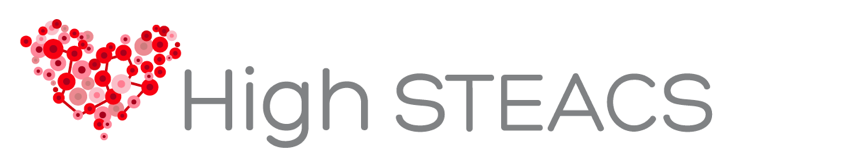
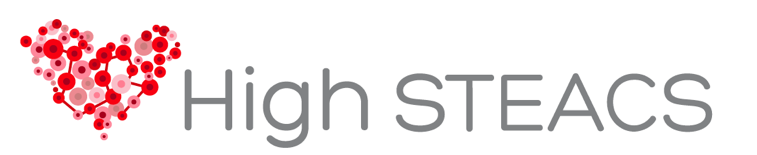
Finish responsive styling

Changed region(s): [[0.0, 0.1032, 0.9419, 0.9548]]

diff --git a/imports/ui/about/about.html b/imports/ui/about/about.html
@@ -1,10 +1,52 @@
 <template name="About">
   <div class="container">
-    <div class="row top-buffer">
+    <div class="row">
+      <div class="col-xs-9 col-md-8 col-md-offset-1">
+        <div class="hidden-xs">
+          <img class="img-responsive" src="/high-STEACS-text.png" />
+        </div>
+        <div class="hidden-sm hidden-md hidden-lg hidden-xl">
+          <img class="img-responsive" src="/High-STEACS-acc.png" />
+        </div>
+      </div>
+      <div class="col-xs-3 col-md-2">
+        <img class="img-responsive bhf-logo" src="/BHF-logo.png" />
+      </div>
+      <div class="col-xs-12 hidden-sm hidden-md hidden-lg hidden-xl">
+        <h3 class="hidden-sm hidden-md hidden-lg hidden-xl">High-sensitivity Troponin in the Evaluation of Patients with Acute Coronary Syndromes</h3>
+      </div>
+    </div>
+
+    <div class="row in-column-buffer">
       <div class="col-sm-8 col-sm-offset-2">
-        <h2 class="text-center">About</h2>
-        <p>This app is not for clinical use, for demonstration purposes only.</p>
-        <p>Algorithm belongs to University of Edinburgh and is used here for educational purposes.</p>
+        <div>
+          <h4>This app is not for clinical use, for demonstration purposes only.</h4>
+          <h4>Algorithm belongs to University of Edinburgh and is used here for educational purposes.</h4>
+          <div class="upper-buffer">
+            <blockquote class="twitter-tweet tw-align-center"><p lang="en" dir="ltr">High-sensitivity cardiac troponin I at presentation in patients with suspected acute coronary syndrome - The Lancet <a href="http://t.co/WAauSiac0V">http://t.co/WAauSiac0V</a></p>&mdash; Nicholas Mills (@HighSTEACS) <a href="https://twitter.com/HighSTEACS/status/652180729800052736">October 8, 2015</a></blockquote> <script async src="//platform.twitter.com/widgets.js" charset="utf-8"></script>
+          </div>
+          <div class="panel panel-info upper-buffer">
+            <div class="panel-heading text-center">
+              <h2>References</h2>
+            </div>
+            <div class="panel-body">
+              <ul>
+                <li class="row">
+                  <p class="col-xs-12">
+                    Chapman AR, Anand A, Boeddinghaus J, Ferry AV, Sandeman D, Adamson PD, Andrews JP, Tan S, Cheng SF, D'Souza M, Orme K, Strachan FE, Nestelberger T, Twerenbold R, Badertscher P, Reichlin T, Gray A, Shah AS, Mueller C, Newby DE, Mills NL.
+                    <a href="https://www.ncbi.nlm.nih.gov/pubmed/28034899" target="_blank">Comparison of the Efficacy and Safety of Early Rule Out Pathways for Acute Myocardial Infarction.</a> Circulation. 2016 Dec 29. pii: CIRCULATIONAHA.116.025021. doi: 10.1161/CIRCULATIONAHA.116.025021.
+                  </p>
+                </li>
+                <li class="row">
+                  <p class="col-xs-12">
+                    Shah AS, Anand A, Sandoval Y, Lee KK, Smith SW, Adamson PD, Chapman AR, Langdon T, Sandeman D, Vaswani A, Strachan FE, Ferry A, Stirzaker AG,  Reid A, Gray AJ, Collinson PO, McAllister DA, Apple FS, Newby DE, Mills NL; High-STEACS investigators.
+                    <a href="https://www.ncbi.nlm.nih.gov/pubmed/26454362" target="_blank">High-sensitivity cardiac troponin I at presentation in patients with suspected acute coronary syndrome: a cohort study.</a> Lancet. 2015 Dec 19;386(10012):2481-8. doi: 10.1016/S0140-6736(15)00391-8.
+                  </p>
+                </li>
+              </ul>
+            </div>
+          </div>
+        </div>
       </div>
     </div>
   </div>

diff --git a/imports/ui/initialAssessment/initialAssessment.html b/imports/ui/initialAssessment/initialAssessment.html
@@ -45,7 +45,7 @@
       <a href="/baseline-troponin" class="btn btn-warning btn-lg btn-display-block-sm" id="non-diagnostic">Non-diagnostic</a>
     </div>
     <div class="col-sm-4 text-center in-column-buffer">
-      <a href="/non-st-elevation" class="btn btn-danger btn-lg btn-display-block-sm" id="non-st-elevation">ST-depression /<br class="hidden-sm hidden-xs"/> T-wave inversion</a>
+      <a href="/non-st-elevation" class="btn btn-danger btn-lg btn-display-block-sm" id="non-st-elevation">ST-depression /<br class="hidden-xs"/> T-wave inversion</a>
       <a href="#informationPanelNSTEMI" data-toggle="collapse">
         <i class="fa fa-info-circle fa-lg" aria-hidden="true"></i>
       </a>

diff --git a/imports/ui/layouts/footer.html b/imports/ui/layouts/footer.html
@@ -8,7 +8,7 @@
           <li><a href="/about" id="about">About</a></li>
         </ul>
       </div>
-      <div class="col-sm-6 col-md-4 col-md-offset-1 legal-links">
+      <div class="col-sm-6 col-md-4 col-md-offset-1 legal-links in-column-buffer">
         This app is not for clinical use.<br>
         For demonstration purposes only.<br>
         Algorithm belongs to University of Edinburgh.

diff --git a/client/custom.css b/client/custom.css
@@ -19,8 +19,8 @@ body {
   box-sizing: border-box;
 }
 
-.top-buffer {
-  /*margin-top: 50px;*/
+.upper-buffer {
+  margin-top: 50px;
 }
 
 .bottom-buffer {
@@ -123,4 +123,13 @@ ul {
 
 .footer-logos {
   max-height: 60px;
+}
+
+/* ABOUT */
+
+.bhf-logo {
+  max-height: 140px;
+}
+
+twitterwidget {
 }

diff --git a/client/mobile-custom.css b/client/mobile-custom.css
@@ -42,6 +42,11 @@
 }
 
 @media screen and (min-width: 480px) and (max-width: 568px ) {
+  body {
+    /* Margin bottom by footer height */
+    margin-bottom: 260px;
+  }
+
   .jumbotron {
     margin: 20px 6px 0 6px;
   }
